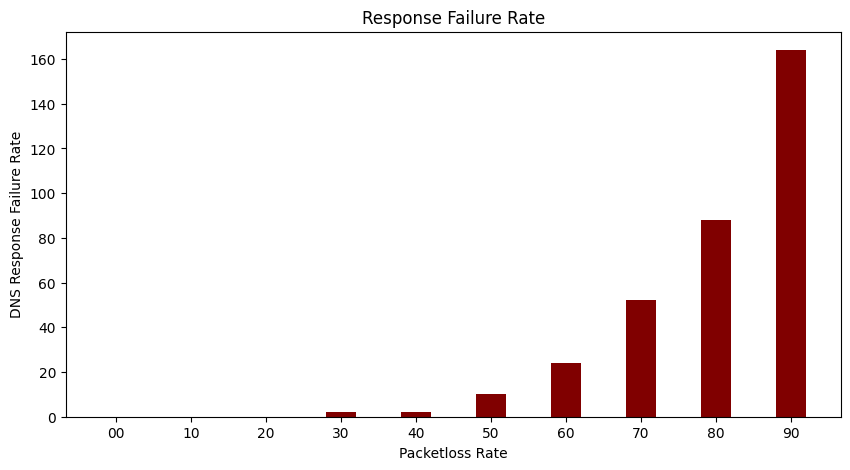
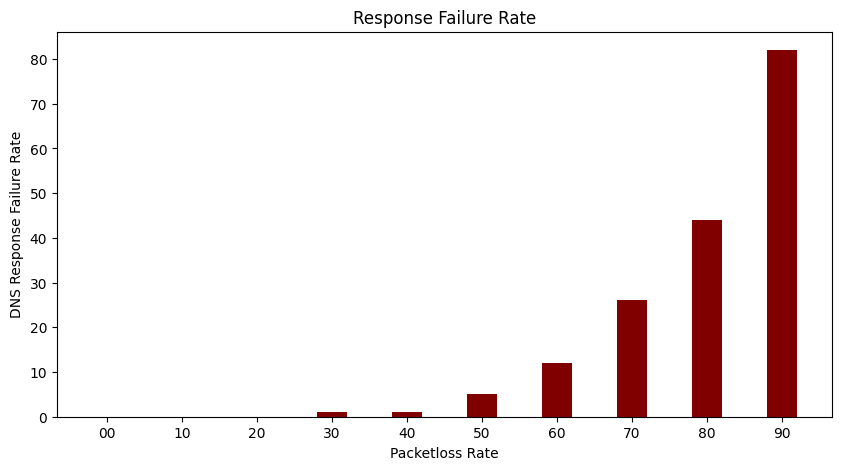
Updated plotting
Updated failure rate plotting

diff --git a/scripts/plotting/createPlots.py b/scripts/plotting/createPlots.py
@@ -47,7 +47,10 @@ for x in range(0, 10):  # 10 is excluded
     # print(data[1]['_source']['layers']['dns']['dns.time'])  # 0.044423000
     packetCount = len(jsonData)
     print(f"  Number of packets in JSON: {packetCount}")
+    response_count = 0
     # Examine all the captured packets in the JSON file
+    dns_id = ""  # DEBUG
+    duplicate = 0
     for i in range(0, packetCount):
         # Check if the packet is a DNS packet
         if 'dns' in jsonData[i]['_source']['layers']:
@@ -60,14 +63,22 @@ for x in range(0, 10):  # 10 is excluded
                     packetlossData[x].append(float(dns_time))
             # Get failure rate (RCODE only present when there is an Answers section in the JSON)
             # count of dns.flags.rcode != 0
-            if jsonData[i]['_source']['layers']['dns']['dns.flags_tree']['dns.flags.response'] == "1":
-                rcode = jsonData[i]['_source']['layers']['dns']['dns.flags_tree']['dns.flags.rcode']
-                # If there was an error, store 1, if not, store 0. The count of 1's is the total failure count.
-                failure_rate_data[x].append(int(rcode))
-                #if rcode != 0:
-                #    failure_rate_data[x].append(1)
-                #else:
-                #    failure_rate_data[x].append(0)
+            if 'dns.flags.response' in jsonData[i]['_source']['layers']['dns']['dns.flags_tree']:  # DEBUG
+                # response_count = response_count + 1  # DEBUG
+                # print(f"Response count: {response_count}")  # DEBUG
+                if jsonData[i]['_source']['layers']['dns']['dns.flags_tree']['dns.flags.response'] == "1":
+                    if dns_id == jsonData[i]['_source']['layers']['dns']['dns.id']:  # DEBUG
+                        duplicate = duplicate + 1  # DEBUG
+                        #  print(f"Duplicate: {duplicate}")  # DEBUG
+                    else:
+                        rcode = jsonData[i]['_source']['layers']['dns']['dns.flags_tree']['dns.flags.rcode']
+                        # If there was an error, store 1, if not, store 0. The count of 1's is the total failure count.
+                        failure_rate_data[x].append(int(rcode))
+                    dns_id = jsonData[i]['_source']['layers']['dns']['dns.id']  # DEBUG
+                    #if rcode != 0:
+                    #    failure_rate_data[x].append(1)
+                    #else:
+                    #    failure_rate_data[x].append(0)
 
 # Create box plot for latency-packetloss
 
